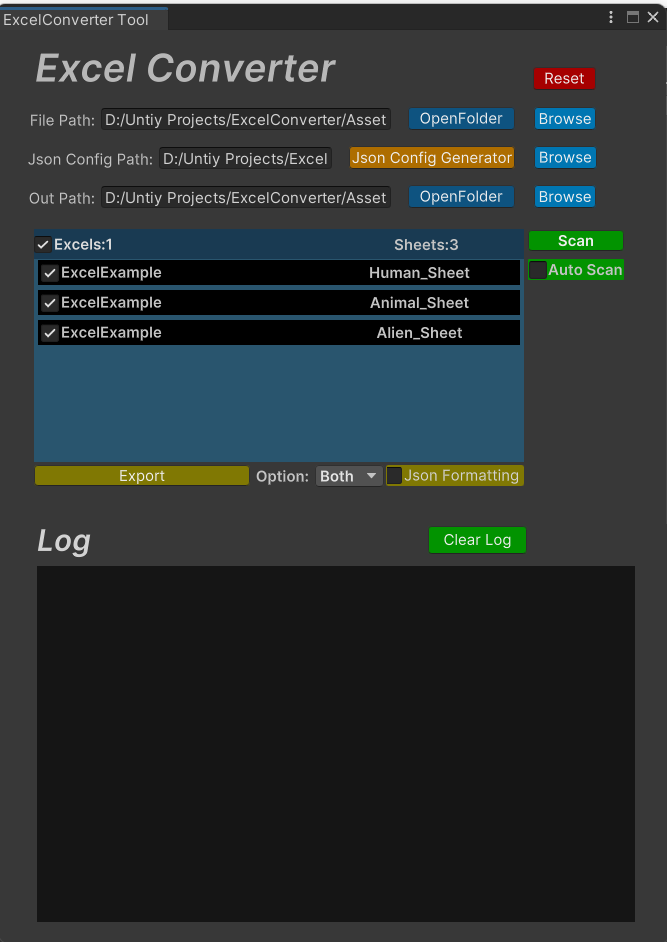
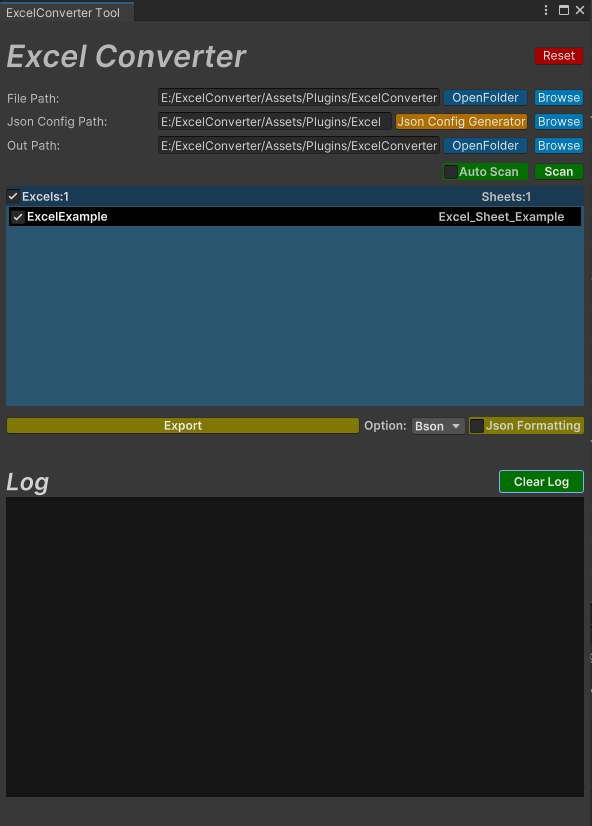
Update ExcelConverter to v1.0.2

Changed region(s): [[0.0, 0.0, 1.0, 0.9988]]

diff --git a/Assets/Plugins/ExcelConverter/Scripts/Editor/ExcelConverter.cs b/Assets/Plugins/ExcelConverter/Scripts/Editor/ExcelConverter.cs
@@ -70,15 +70,14 @@ namespace ExcelConverter.Editor
         private Button openOutPathBtn = null;
         private ScrollView scrollViewExcelFiles = null;
         private PopupField<string> exportOptionPop = null;
-        public ProgressBar excelLoadingProgress { get; private set; }
+        private ProgressBar excelLoadingProgress = null;
 
         [MenuItem("Plugins/Excel Converter")]
         static void Init()
         {
             var window = GetWindow<ExcelConverterEditor>();
             window.titleContent = new GUIContent("ExcelConverter Tool");
-            window.minSize = new Vector2(536, 723);
-            window.maxSize = new Vector2(536, 723);
+            window.minSize = new Vector2(540, 760);
         }
 
         private async void OnEnable()

diff --git a/Assets/Plugins/ExcelConverter/CHANGELOG.md b/Assets/Plugins/ExcelConverter/CHANGELOG.md
@@ -1,5 +1,8 @@
 ## CHANGELOG
 
+### v1.0.2
+- Totally re-layout the ExcelConverter editor.
+
 ### v1.0.1
 - Fixed : Overflow display of Progressbar's text.
 
